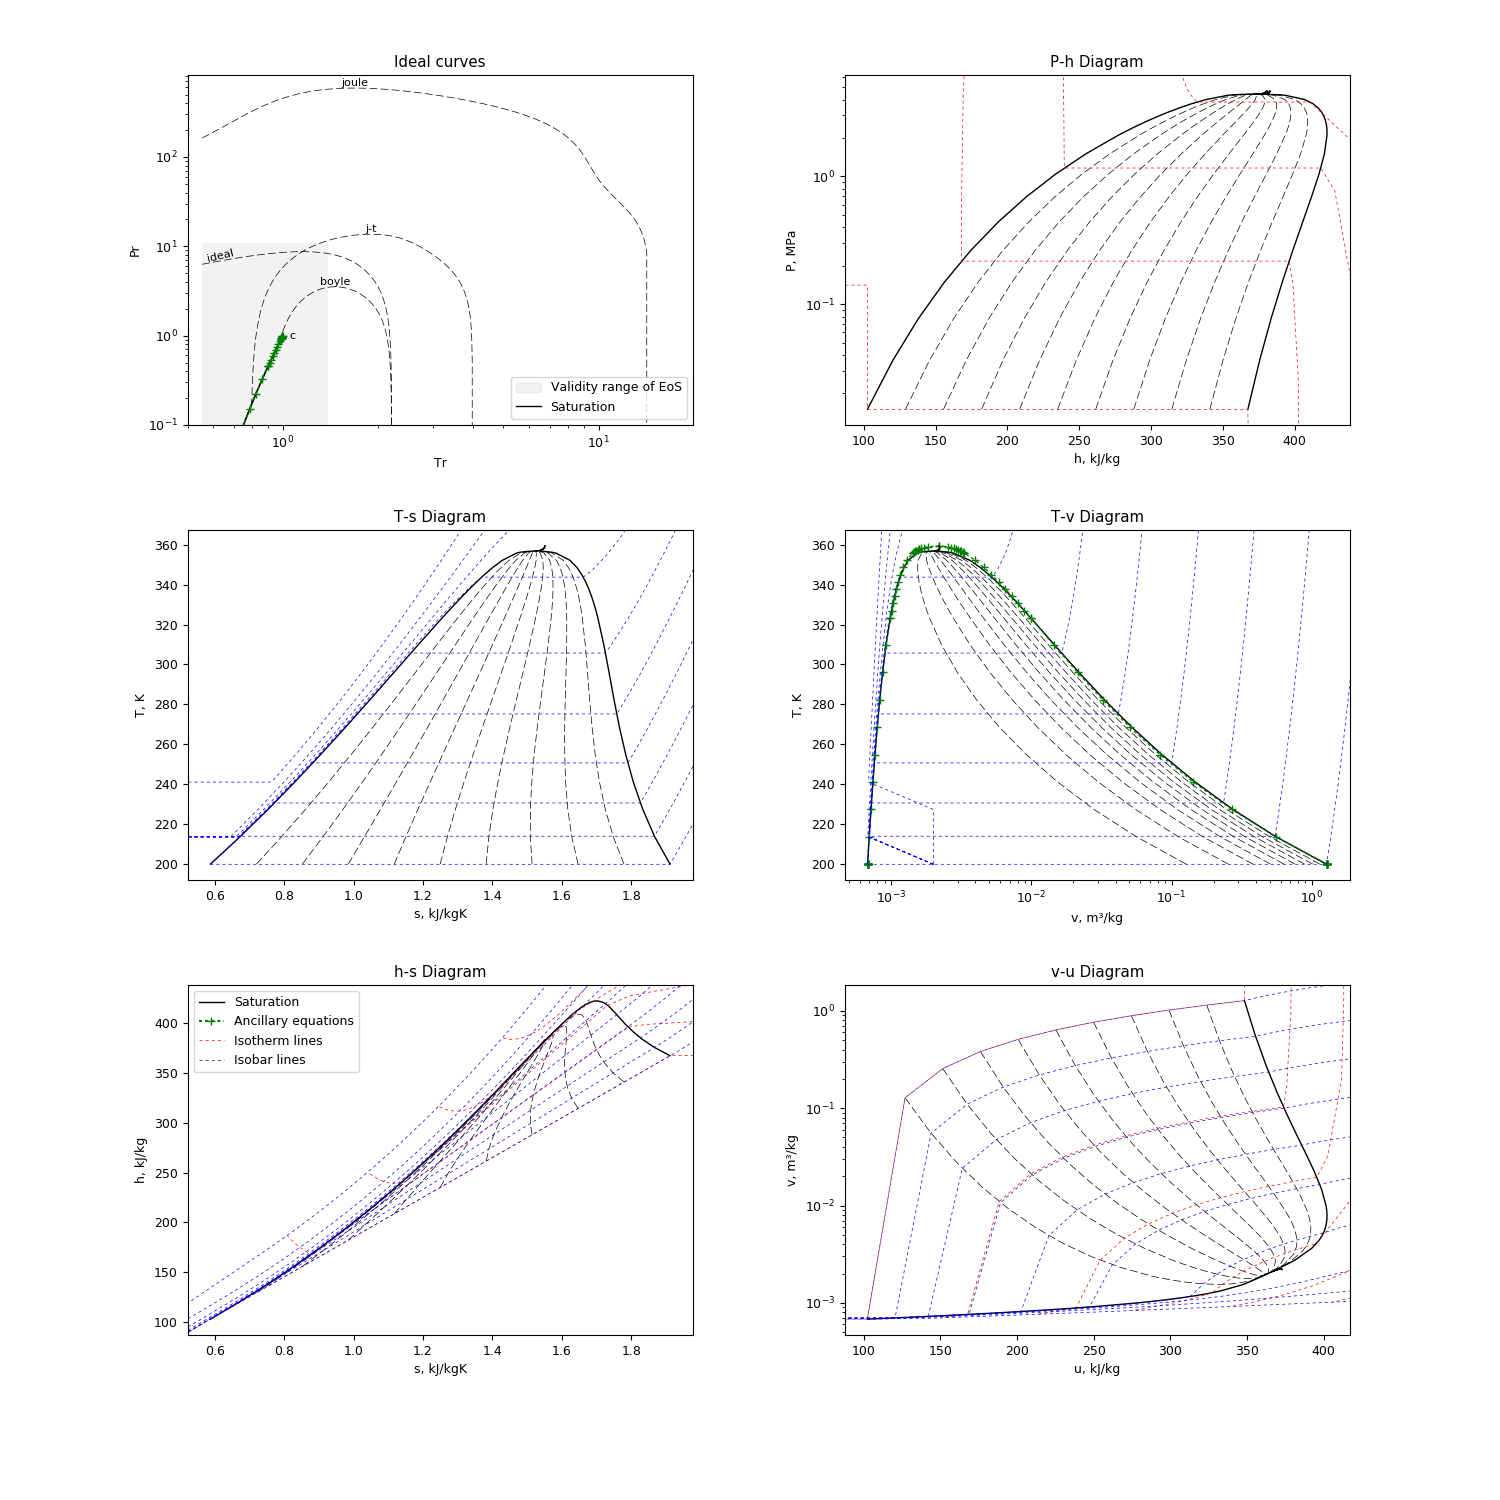
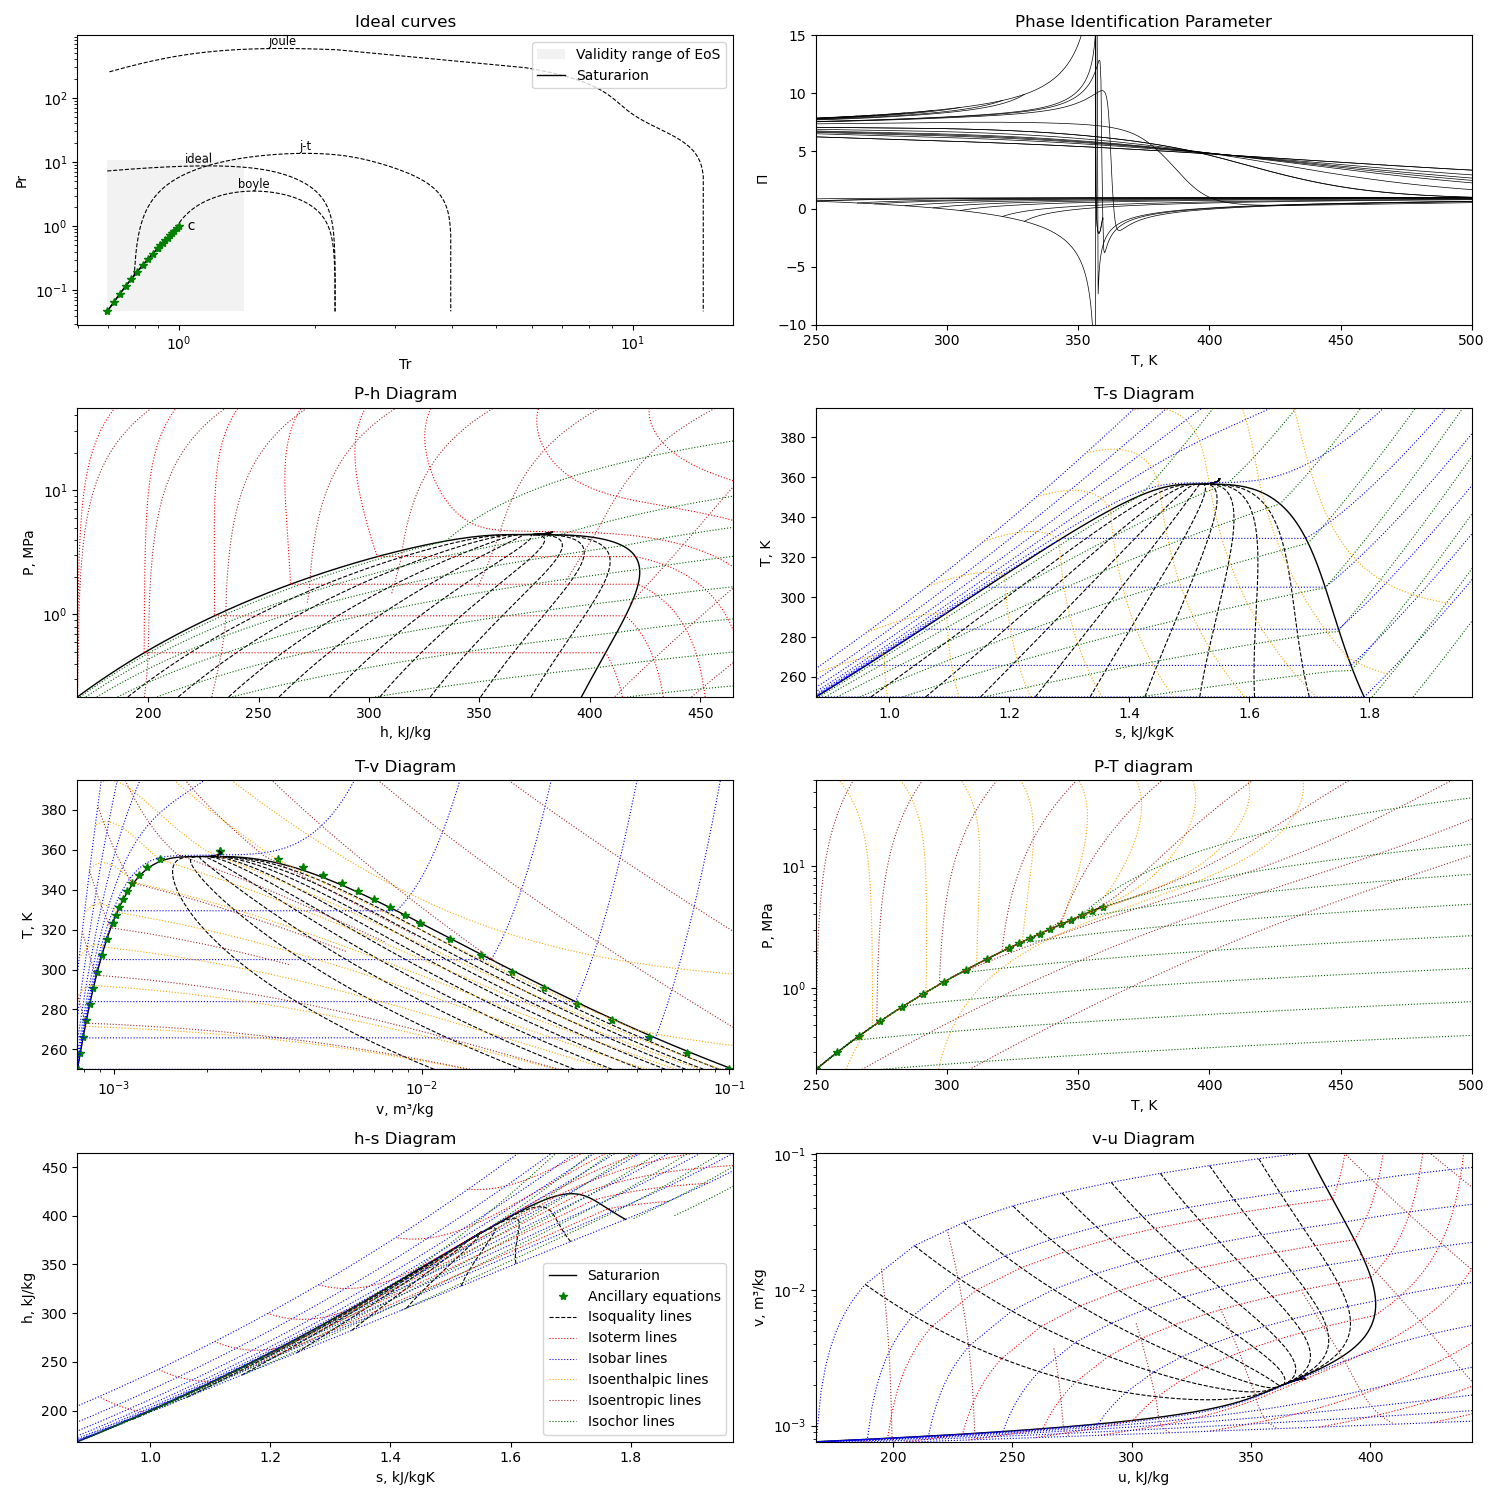
Update pseudocompounds images for mEoS documentation including PIP plot

diff --git a/lib/mEoS/Air.py b/lib/mEoS/Air.py
@@ -72,7 +72,7 @@ class Air(MEoSBlend):
             "title": "Thermodynamic Properties of Air and Mixtures of "
                      "Nitrogen, Argon, and Oxygen From 60 to 2000 K at "
                      "Pressures to 2000 MPa",
-            "ref": "J. Phys. Chem. Ref. Data 29, 331 (2000)",
+            "ref": "J. Phys. Chem. Ref. Data 29(3) (2000) 331-385",
             "doi": "10.1063/1.1285884"},
 
         "R": 8.31451,
@@ -113,7 +113,7 @@ class Air(MEoSBlend):
             "autor": "Jacobsen, R.T, Penoncello, S.G., Beyerlein, S.W., "
                      "Clarke, W.P., Lemmon, E.W.",
             "title": "A Thermodynamic Property Formulation for Air",
-            "ref": "Fluid Phase Equilibria, 79:113-124, 1992.",
+            "ref": "Fluid Phase Equilibria, 79 (1992) 113-124",
             "doi": "10.1016/0378-3812(92)85124-Q"},
 
         "R": 8.31451,

diff --git a/.script/plotMEoS.py b/.script/plotMEoS.py
@@ -166,7 +166,7 @@ ax_Ideal.set_ylabel("Pr")
 ax_PIP = fig.add_subplot(4, 2, 2)
 ax_PIP.set_title("Phase Identification Parameter")
 ax_PIP.set_xlabel("T, K")
-ax_PIP.set_ylabel("$\Pi$")
+ax_PIP.set_ylabel(r"$\Pi$")
 
 ax_Ph = fig.add_subplot(4, 2, 3)
 ax_Ph.set_yscale("log")
@@ -703,6 +703,7 @@ for v in isov:
                     # Function to find the intersection between isochor line
                     def f_v(ti):
                         ti = min(ti, fluid.eq[0]["Tmax"])
+                        ti = max(ti, fluid.eq[0]["Tmin"])
                         pm = fluid()._Melting_Pressure(ti)
                         if pm > 0:
                             return fluid(T=ti, P=pm).v-v

diff --git a/lib/mEoS/R404a.py b/lib/mEoS/R404a.py
@@ -63,7 +63,7 @@ class R404a(MEoSBlend):
         "cp": Fi1,
         "ref": "IIR",
 
-        "Tmin": Tt, "Tmax": 500.0, "Pmax": 50000.0, "rhomax": 14.21,
+        "Tmin": 250, "Tmax": 500.0, "Pmax": 50000.0, "rhomax": 14.5,
 
         "Tj": 345.270, "Pj": 3.7348,
         "dew": {"i": [0.1*2, 0.972*2, 3.8*2, 9.0*2],

diff --git a/lib/mEoS/R507a.py b/lib/mEoS/R507a.py
@@ -61,7 +61,7 @@ class R507a(MEoSBlend):
         "cp": Fi1,
         "ref": "IIR",
 
-        "Tmin": Tt, "Tmax": 500.0, "Pmax": 50000.0, "rhomax": 14.13,
+        "Tmin": 200, "Tmax": 500.0, "Pmax": 50000.0, "rhomax": 14.13,
 
         "Tj": 343.765, "Pj": 3.7049,
         "dew": {"i": [1*2, 1.5*2, 2.1*2, 4.7*2],
